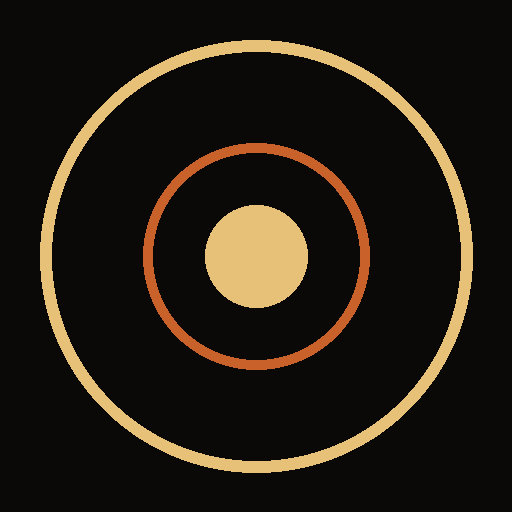
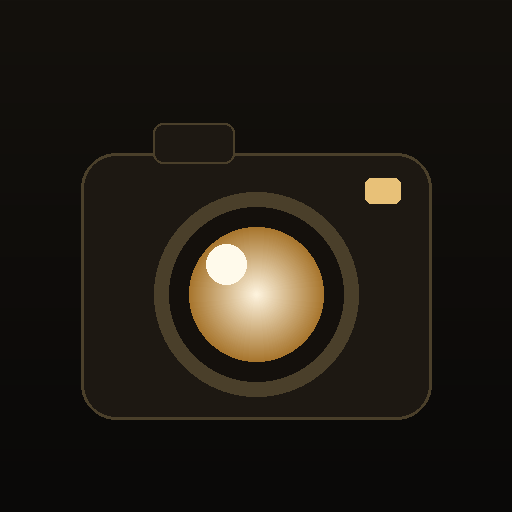
Add files via upload

diff --git a/sw.js b/sw.js
@@ -1,13 +1,43 @@
-const CACHE = "retrocam-v1";
-const ASSETS = ["./", "./index.html", "./manifest.json"];
-self.addEventListener("install", e => {
-  e.waitUntil(caches.open(CACHE).then(c => c.addAll(ASSETS)));
-  self.skipWaiting();
+// RetroCam Service Worker — cache do app shell para uso offline
+const CACHE = 'retrocam-v1';
+const ASSETS = [
+  './',
+  './index.html',
+  './manifest.json',
+  './icon-192.png',
+  './icon-512.png'
+];
+
+// Instala e pré-carrega o app shell
+self.addEventListener('install', (e) => {
+  e.waitUntil(
+    caches.open(CACHE).then((c) => c.addAll(ASSETS)).then(() => self.skipWaiting())
+  );
 });
-self.addEventListener("activate", e => {
-  e.waitUntil(caches.keys().then(ks => Promise.all(kx.filter(k=>k!==CACHE).map(k=>caches.delete(k)))));
-  self.clients.claim();
+
+// Remove caches antigos ao ativar
+self.addEventListener('activate', (e) => {
+  e.waitUntil(
+    caches.keys().then((keys) =>
+      Promise.all(keys.filter((k) => k !== CACHE).map((k) => caches.delete(k)))
+    ).then(() => self.clients.claim())
+  );
 });
-self.addEventListener("fetch", e => {
-  e.respondWith(caches.match(e.request).then(r => r || fetch	e.request)));
+
+// Cache-first para o app; rede como fallback (e atualiza o cache)
+self.addEventListener('fetch', (e) => {
+  const req = e.request;
+  if (req.method !== 'GET') return;
+  e.respondWith(
+    caches.match(req).then((cached) => {
+      const fromNet = fetch(req).then((res) => {
+        if (res && res.status === 200 && res.type === 'basic') {
+          const copy = res.clone();
+          caches.open(CACHE).then((c) => c.put(req, copy));
+        }
+        return res;
+      }).catch(() => cached);
+      return cached || fromNet;
+    })
+  );
 });